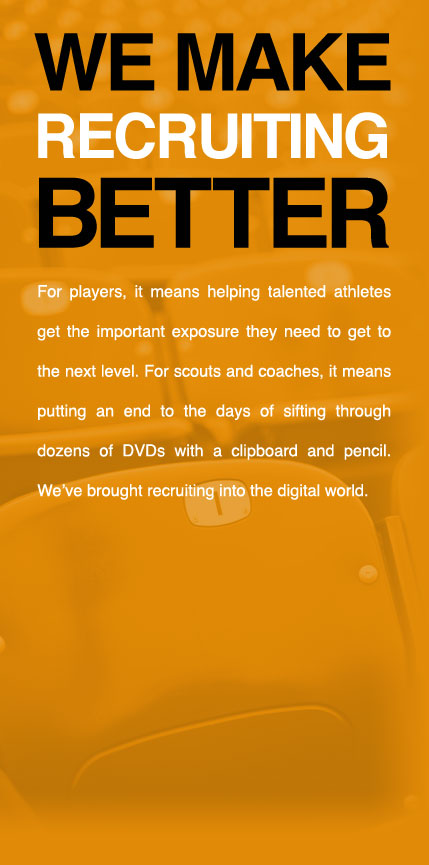
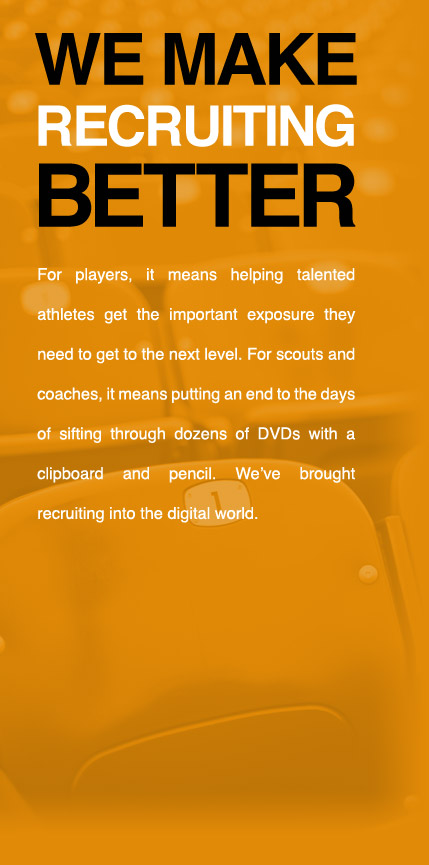
dynamic ad background sniffer updated ad images with new ones from LA.

Changed region(s): [[0.0909, 0.0312, 0.9091, 0.6243]]

diff --git a/js/tapeplay.js b/js/tapeplay.js
@@ -1,6 +1,8 @@
 var infoBubbleOpen = false;
 var timeout = {};
 
+setContainerBGImage();
+
 jQuery(document).ready(function(){
     jQuery.validator.addMethod('noDefault', function (value, element) {
         if (element.value === element.defaultValue) {
@@ -729,4 +731,31 @@ function openBubble(obj) {
 //    });
 
     infoBubbleOpen = true;
+}
+
+function setContainerBGImage()
+{
+	// set ad size based on browser width
+	var browserWidth = $(window).width();
+	var imageSize = "";
+
+	switch (true)
+	{
+		case browserWidth >= 1600:
+			imageSize = 1600;
+			break;
+		case browserWidth >= 1440:
+			imageSize = 1440;
+			break;
+		case browserWidth >= 1366:
+			imageSize = 1366;
+			break;
+		default:
+			imageSize = 1280;
+			break;
+	}
+
+	// create image name
+	var bgName = "hp_betaAd_background_" + imageSize.toString() + ".jpg";
+	$("#container").css("background-image", "url(/media/images/ads/" + imageSize);
 }
